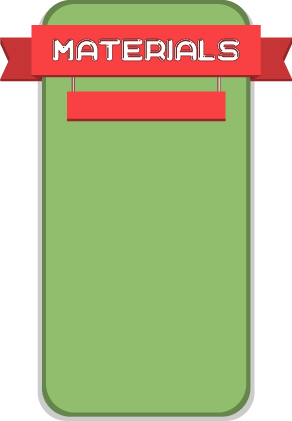
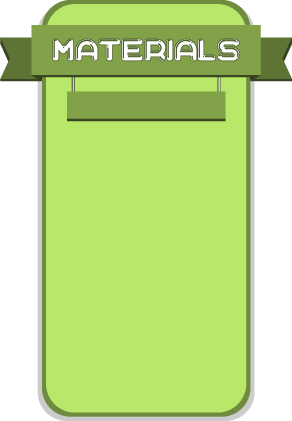
TradingWindow

diff --git a/src/group/siedler/src/gui/FXController.java b/src/group/siedler/src/gui/FXController.java
@@ -6,11 +6,17 @@ import diceRolling.DiceRolling;
 import helper.QuickJSON;
 import javafx.animation.AnimationTimer;
 import javafx.event.ActionEvent;
+import javafx.fxml.FXMLLoader;
 import javafx.fxml.Initializable;
 
 import java.awt.event.ActionListener;
+import java.io.File;
+import java.io.IOException;
 import java.net.URL;
 import javafx.fxml.FXML;
+import javafx.scene.Node;
+import javafx.scene.Parent;
+import javafx.scene.Scene;
 import javafx.scene.control.Button;
 import javafx.scene.control.Label;
 import javafx.scene.image.Image;
@@ -20,6 +26,7 @@ import javafx.scene.input.KeyEvent;
 import javafx.scene.input.MouseEvent;
 import javafx.scene.layout.AnchorPane;
 import javafx.scene.text.Font;
+import javafx.stage.Stage;
 import map.BuildRules;
 import map.Map;
 import map.MapGenerator;
@@ -50,6 +57,10 @@ public class FXController implements Initializable, Player, Presenter {
     private MaterialType sellType;
 
     private boolean animationStopFlag = false;
+
+    private Stage stage;
+    private Scene scene;
+    private Parent root;
     
 
     @FXML
@@ -86,6 +97,8 @@ public class FXController implements Initializable, Player, Presenter {
     private Label oreAmount;
     @FXML
     private Label currentPlayer;
+    @FXML
+    private ImageView tradeWithBankButton;
 
     Roller clock = new Roller();
 
@@ -127,6 +140,24 @@ public class FXController implements Initializable, Player, Presenter {
                 }
             }
         }
+    }
+
+    public void switchToMainScene(MouseEvent mouseEvent) throws IOException {
+        FXMLLoader loader = new FXMLLoader(new File("src/gui/SiedlerGUI.fxml").toURI().toURL());
+        root = loader.load();
+        stage = (Stage)((Node)mouseEvent.getSource()).getScene().getWindow();
+        scene = new Scene(root);
+        stage.setScene(scene);
+        stage.show();
+    }
+
+    public void switchToTradingWithBankScene(MouseEvent mouseEvent) throws IOException {
+        FXMLLoader loader = new FXMLLoader(new File("src/gui/TradingWithBankGUI.fxml").toURI().toURL());
+        root = loader.load();
+        stage = (Stage)((Node)mouseEvent.getSource()).getScene().getWindow();
+        scene = new Scene(root);
+        stage.setScene(scene);
+        stage.show();
     }
 
     private class Roller extends AnimationTimer{
@@ -196,6 +227,26 @@ public class FXController implements Initializable, Player, Presenter {
         dice.setImage(new Image(diceImage));
     }
 
+    public void setPlayerMaterialsImage (String s, ImageView playerMaterials){
+
+        String playerMaterialsImage = "./resources/Player" + s + "Materials.png";
+
+        playerMaterials.setImage(new Image(playerMaterialsImage));
+    }
+/*
+    public void tradeWithBankButtonClicked(MouseEvent mouseEvent) throws IOException {
+
+        FXMLLoader loader = new FXMLLoader(new File("src/gui/TradingWithBankGUI.fxml").toURI().toURL());
+        Parent root = loader.load();
+        Scene scene = new Scene(root, 1200,900);
+
+        Stage tradingStage = new Stage();
+        tradingStage.setTitle("Trade with Bank");
+        tradingStage.setScene(scene);
+        tradingStage.show();
+    }
+
+*/
     @Override
     public void initialize(URL url, ResourceBundle resourceBundle) {
         controller = new Controller();
@@ -227,6 +278,7 @@ public class FXController implements Initializable, Player, Presenter {
     }
 
     private void setupBindings() {
+        /*
         background.fitHeightProperty().bind(back.heightProperty());
         background.fitWidthProperty().bind(back.widthProperty());
 
@@ -240,16 +292,16 @@ public class FXController implements Initializable, Player, Presenter {
         dice1.yProperty().bind(dice2.yProperty());
         dice1.xProperty().bind(back.widthProperty().multiply(0.79));
 
-        playerMaterials.setImage(new Image("./resources/PlayerGreenMaterials.png"));
+        //playerMaterials.setImage(new Image("./resources/PlayerGreenMaterials.png"));
         playerMaterials.yProperty().bind(back.heightProperty().multiply(0.01));
         playerMaterials.xProperty().bind(back.widthProperty().multiply(0.7));
         playerMaterials.fitHeightProperty().bind(back.heightProperty().multiply(0.6));
 
         //woodLabel.setText("Wood");
-        
+
         //Set Fonts
-        woodLabel.setFont(Font.font("Arial", 15));
-        wheatLabel.setFont(Font.font("Arial", 15));
+        woodLabel.setFont(Font.font("Bauhaus 93", 27));
+        wheatLabel.setFont(Font.font("Bauhaus 93", 27));
         clayLabel.setFont(Font.font("Arial", 15));
         oreLabel.setFont(Font.font("Arial", 15));
         woolLabel.setFont(Font.font("Arial", 15));
@@ -261,6 +313,8 @@ public class FXController implements Initializable, Player, Presenter {
         woolAmount.setFont(Font.font("Arial", 15));
         
         currentPlayer.setFont(Font.font("Arial", 15));
+        */
+
     }
 
     private void setupPlayers() {
@@ -274,7 +328,7 @@ public class FXController implements Initializable, Player, Presenter {
     }
     
     public void setResources() {
-    	
+
     	currentPlayer.setText(controller.getCurrentPlayerColor().name() + "'s turn");
     	woodAmount.setText(String.valueOf(controller.getCurrentPlayerHand().getAmount(MaterialType.WOOD)));
     	wheatAmount.setText(String.valueOf(controller.getCurrentPlayerHand().getAmount(MaterialType.WHEAT)));

diff --git a/src/group/siedler/src/siedlerController/Main.java b/src/group/siedler/src/siedlerController/Main.java
@@ -27,14 +27,16 @@ public class Main extends Application {
 
         FXMLLoader loader = new FXMLLoader(new File("./src/gui/SiedlerGUI.fxml").toURI().toURL());
         Parent root = loader.load();
-        Scene scene = new Scene(root, 700,499.1);
+        Scene scene = new Scene(root, 1200,900);
         
         //This line of code just fixed everything.. *ALL HAIL THIS LINE OF CODE*
         scene.getRoot().requestFocus();
         
         primaryStage.setTitle("Die Siedler von Konstanz");
         primaryStage.setScene(scene);
-        primaryStage.minWidthProperty().set(700);
+       // primaryStage.minWidthProperty().set(700);
+
+        /*
         primaryStage.minHeightProperty().bind(primaryStage.widthProperty().multiply(0.713));
         primaryStage.maxHeightProperty().bind(primaryStage.widthProperty().multiply(0.713));
         primaryStage.maximizedProperty().addListener((observable, oldValue, newValue) -> {
@@ -42,7 +44,7 @@ public class Main extends Application {
                 primaryStage.setMaximized(false);
             }
         });
-
+*/
         primaryStage.show();
 
 